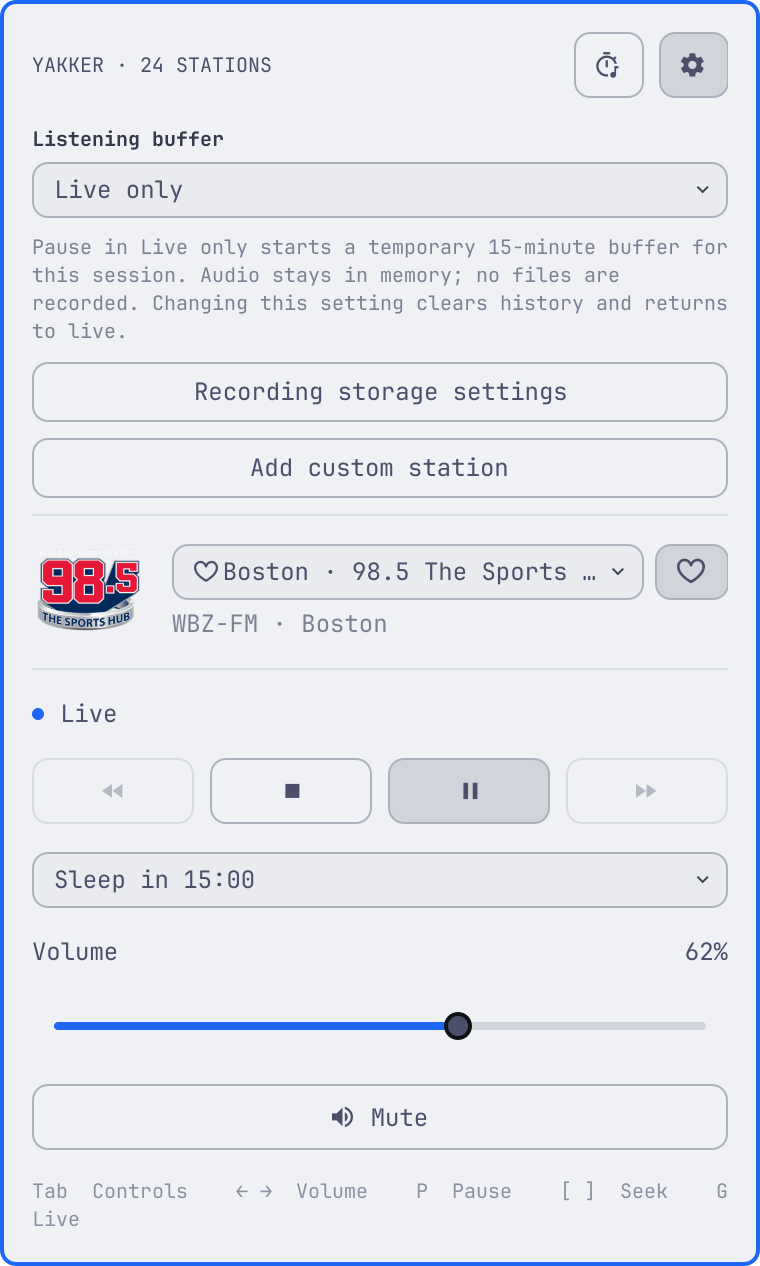
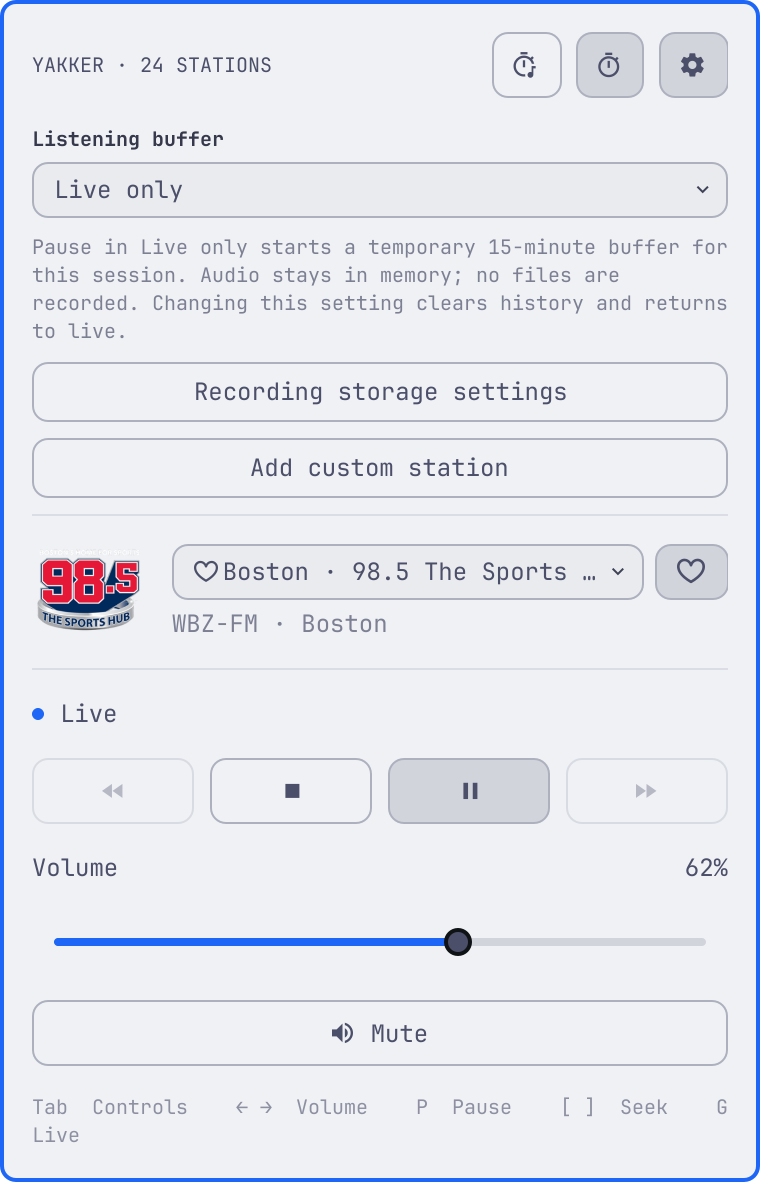
Move the sleep timer into a compact header popover

diff --git a/Panel.qml b/Panel.qml
@@ -22,7 +22,6 @@ Ui.Panel {
   property string editingStationId: ""
   readonly property var radio: Radio.RadioService
   property var scrollTarget: null
-  property bool customSleepOpen: false
   property string sleepError: ""
 
   function applySleepTimer() {
@@ -32,7 +31,7 @@ Ui.Panel {
       return
     }
     radio.setSleepTimer(minutes)
-    customSleepOpen = false; sleepError = ""
+    sleepPopup.close(); sleepError = ""
     keyCatcher.forceActiveFocus()
   }
 
@@ -47,7 +46,9 @@ Ui.Panel {
     return false
   }
   function advanceCursor(direction) {
-    let order = [14,4]
+    let order = [14]
+    if (sleepButton.enabled) order.push(19)
+    order.push(4)
     if (settingsOpen) {
       order = order.concat([5,17,10])
       if (radio.station.custom) order = order.concat([11,12])
@@ -59,7 +60,6 @@ Ui.Panel {
     if (playButton.enabled) order.push(1)
     if (forwardButton.enabled) order.push(8)
     if (speedPicker.visible) order.push(18)
-    if (sleepPicker.visible) order.push(19)
     if (radio.playbackKind === "recording") {
       if (radio.wanted && radio.duration > 0 && (radio.playbackState === "playing" || radio.paused)) order.push(15)
       if (radio.wanted || radio.bufferActive) order.push(16)
@@ -73,7 +73,7 @@ Ui.Panel {
   function ensureCursorVisible() {
     const targets = [stationPicker, playButton, volumeSlider, muteButton, settingsButton,
                      bufferPicker, stopButton, backButton, forwardButton, liveButton,
-                     addStationButton, editStationButton, deleteStationButton, favoriteButton, recordingsButton, fileTimeline, returnLiveButton, storageButton, speedPicker, sleepPicker]
+                     addStationButton, editStationButton, deleteStationButton, favoriteButton, recordingsButton, fileTimeline, returnLiveButton, storageButton, speedPicker, sleepButton]
     ensureItemVisible(targets[cursor])
   }
   function ensureItemVisible(item) {
@@ -110,7 +110,7 @@ Ui.Panel {
     else if (cursor === 16) returnLiveButton.clicked()
     else if (cursor === 17 && settingsOpen) openRecordings(true)
     else if (cursor === 18 && speedPicker.visible) speedPicker.toggle()
-    else if (cursor === 19 && sleepPicker.visible) sleepPicker.toggle()
+    else if (cursor === 19 && sleepButton.enabled) sleepButton.clicked()
   }
   function openRecordings(storage) {
     recordingsOpen = true
@@ -147,12 +147,12 @@ Ui.Panel {
     keyCatcher.forceActiveFocus()
   }
   onOpenedChanged: {
-    if (!opened) { stationPicker.close(); bufferPicker.close(); speedPicker.close(); sleepPicker.close(); customSleepOpen = false; stationEditorOpen = false; confirmStationDelete = false }
+    if (!opened) { stationPicker.close(); bufferPicker.close(); speedPicker.close(); sleepPopup.close(); stationEditorOpen = false; confirmStationDelete = false }
     else if (!radio.hasStation && radio.playbackKind !== "recording") cursor = 0
   }
   Connections {
     target: root.radio
-    function onWantedChanged() { if (!root.radio.wanted) root.customSleepOpen = false }
+    function onWantedChanged() { if (!root.radio.wanted) sleepPopup.close() }
     function onStationIdChanged() { stationPicker.value = root.radio.stationId; root.confirmStationDelete = false }
     function onBufferMinutesChanged() { bufferPicker.value = String(root.radio.bufferMinutes) }
     function onReadyChanged() {
@@ -178,14 +178,14 @@ Ui.Panel {
     owner: root.hostWidget || root
     bar: root.bar
     open: root.opened
-    focusTarget: (stationPicker.popupOpen || bufferPicker.popupOpen || speedPicker.popupOpen || sleepPicker.popupOpen || customSleepOpen || stationEditorOpen || recordingsOpen) ? null : keyCatcher
+    focusTarget: (stationPicker.popupOpen || bufferPicker.popupOpen || speedPicker.popupOpen || sleepPopup.opened || stationEditorOpen || recordingsOpen) ? null : keyCatcher
     contentWidth: panel.fittedContentWidth(Style.space(380))
     contentHeight: panel.fittedContentHeight(panelContent.implicitHeight)
 
     Ui.PanelKeyCatcher {
       id: keyCatcher
       anchors.fill: parent
-      blocked: root.recordingsOpen || root.customSleepOpen || speedPicker.popupOpen || sleepPicker.popupOpen || stationPicker.popupOpen || bufferPicker.popupOpen || stationName.activeFocus || stationURL.activeFocus || stationCity.activeFocus || stationCountry.activeFocus || stationWebsite.activeFocus || saveStationButton.activeFocus || cancelStationButton.activeFocus
+      blocked: root.recordingsOpen || sleepPopup.opened || speedPicker.popupOpen || stationPicker.popupOpen || bufferPicker.popupOpen || stationName.activeFocus || stationURL.activeFocus || stationCity.activeFocus || stationCountry.activeFocus || stationWebsite.activeFocus || saveStationButton.activeFocus || cancelStationButton.activeFocus
       onCloseRequested: root.close()
       onTabRequested: direction => root.advanceCursor(direction)
       onMoveRequested: (dx, dy) => {
@@ -238,7 +238,7 @@ Ui.Panel {
           width: parent.width
           spacing: Style.space(8)
           Text {
-            width: parent.width - recordingsButton.width - settingsButton.width - parent.spacing * 2
+            width: parent.width - recordingsButton.width - sleepButton.width - settingsButton.width - parent.spacing * 3
             anchors.verticalCenter: parent.verticalCenter
             text: "YAKKER · " + root.radio.stations.length + " STATIONS"
             textFormat: Text.PlainText
@@ -258,6 +258,77 @@ Ui.Panel {
             hasCursor: root.cursor === 14
             onHovered: hovered => { if (hovered) root.cursor = 14 }
             onClicked: root.openRecordings(false)
+          }
+          Ui.Button {
+            id: sleepButton
+            iconText: "" // nf-md-timer_outline
+            tooltipText: root.radio.sleepRemaining > 0 ? "Sleep in " + root.radio.clock(root.radio.sleepRemaining) : "Sleep timer"
+            Accessible.role: Accessible.Button
+            Accessible.name: tooltipText
+            foreground: root.barForeground
+            bordered: true
+            enabled: root.radio.wanted || root.radio.sleepRemaining > 0
+            opacity: enabled ? 1 : 0.35
+            selected: root.radio.sleepRemaining > 0
+            hasCursor: root.cursor === 19
+            onHovered: hovered => { if (hovered) root.cursor = 19 }
+            onClicked: sleepPopup.opened ? sleepPopup.close() : sleepPopup.open()
+            QQC.Popup {
+              id: sleepPopup
+              x: Math.max(-sleepButton.x, sleepButton.width - width)
+              y: sleepButton.height + Style.space(4)
+              width: Math.min(Style.space(260), panelContent.width)
+              padding: Style.space(12)
+              focus: true
+              closePolicy: QQC.Popup.CloseOnEscape | QQC.Popup.CloseOnPressOutsideParent
+              onOpened: { root.sleepError = ""; Qt.callLater(function() { sleepPresets.itemAt(0).forceActiveFocus() }) }
+              onClosed: if (!root.recordingsOpen && root.opened) Qt.callLater(function() { keyCatcher.forceActiveFocus() })
+              background: Ui.BorderSurface {
+                color: Commons.Color.popups.background
+                radius: Style.cornerRadius
+                borderSpec: Border.surfaceSpec("popups", "border", Commons.Color.popups.border, Style.normalBorderWidth)
+              }
+              contentItem: Column {
+                spacing: Style.space(8)
+                Text { width: parent.width; text: root.radio.sleepRemaining > 0 ? "Sleep in " + root.radio.clock(root.radio.sleepRemaining) : "Sleep timer"; textFormat: Text.PlainText; color: root.barForeground; font.family: Style.font.family; font.pixelSize: Style.font.body }
+                Row {
+                  width: parent.width
+                  spacing: Style.space(6)
+                  Repeater {
+                    id: sleepPresets
+                    model: [15, 30, 60]
+                    Ui.Button {
+                      required property int modelData
+                      width: (parent.width - parent.spacing * 2) / 3
+                      text: modelData + " min"
+                      foreground: root.barForeground
+                      bordered: true
+                      focusable: true
+                      onClicked: { root.radio.setSleepTimer(modelData); sleepPopup.close() }
+                    }
+                  }
+                }
+                Text { width: parent.width; text: "Custom minutes (1–240)"; textFormat: Text.PlainText; color: root.barForeground; font.family: Style.font.family; font.pixelSize: Style.font.caption }
+                Row {
+                  width: parent.width
+                  spacing: Style.space(6)
+                  Ui.TextField {
+                    id: sleepMinutes
+                    width: parent.width - sleepApply.width - parent.spacing
+                    text: "30"
+                    maximumLength: 3
+                    Accessible.name: "Sleep timer minutes"
+                    foreground: root.barForeground
+                    inputMethodHints: Qt.ImhDigitsOnly
+                    KeyNavigation.tab: sleepApply
+                    onAccepted: root.applySleepTimer()
+                  }
+                  Ui.Button { id: sleepApply; text: "Set"; foreground: root.barForeground; bordered: true; focusable: true; onClicked: root.applySleepTimer() }
+                }
+                Text { width: parent.width; text: root.sleepError; visible: text.length > 0; wrapMode: Text.Wrap; textFormat: Text.PlainText; color: Commons.Color.urgent; font.family: Style.font.family; font.pixelSize: Style.font.caption }
+                Ui.Button { width: parent.width; text: "Turn timer off"; enabled: root.radio.sleepRemaining > 0; opacity: enabled ? 1 : 0.35; foreground: root.barForeground; bordered: true; focusable: true; onClicked: { root.radio.setSleepTimer(0); sleepPopup.close() } }
+              }
+            }
           }
           Ui.Button {
             id: settingsButton
@@ -616,7 +687,7 @@ Ui.Panel {
         Row {
           width: parent.width
           spacing: Style.space(8)
-          visible: root.radio.wanted || root.radio.sleepRemaining > 0
+          visible: root.radio.playbackKind === "recording" && root.radio.wanted
           Ui.Dropdown {
             id: speedPicker
             width: (parent.width - parent.spacing) / 2
@@ -629,49 +700,6 @@ Ui.Panel {
             onHovered: hovered => { if (hovered) root.cursor = 18 }
             onChanged: value => { root.radio.setPlaybackSpeed(Number(value)); Qt.callLater(function() { keyCatcher.forceActiveFocus() }) }
           }
-          Ui.Dropdown {
-            id: sleepPicker
-            width: speedPicker.visible ? (parent.width - parent.spacing) / 2 : parent.width
-            showLabel: false
-            value: root.radio.sleepRemaining > 0 ? "active" : "0"
-            options: (root.radio.sleepRemaining > 0 ? [{value:"active",label:"Sleep in " + root.radio.clock(root.radio.sleepRemaining)}] : []).concat([
-              {value:"0",label:"Sleep timer · Off"}, {value:"15",label:"Sleep in 15 minutes"}, {value:"30",label:"Sleep in 30 minutes"}, {value:"60",label:"Sleep in 60 minutes"}, {value:"custom",label:"Custom sleep timer…"}])
-            foreground: root.barForeground
-            hasCursor: root.cursor === 19
-            onHovered: hovered => { if (hovered) root.cursor = 19 }
-            onChanged: value => {
-              if (value === "custom") {
-                root.customSleepOpen = true; root.sleepError = ""
-                Qt.callLater(function() { sleepMinutes.forceActiveFocus(); root.ensureItemVisible(sleepMinutes) })
-              } else if (value !== "active") root.radio.setSleepTimer(Number(value))
-              if (value !== "custom") Qt.callLater(function() { keyCatcher.forceActiveFocus() })
-            }
-          }
-        }
-        Column {
-          width: parent.width
-          spacing: Style.space(6)
-          visible: root.customSleepOpen && root.radio.wanted
-          Row {
-            width: parent.width
-            spacing: Style.space(6)
-            Ui.TextField {
-              id: sleepMinutes
-              width: parent.width - sleepApply.width - sleepCancel.width - parent.spacing * 2
-              text: "30"
-              maximumLength: 3
-              placeholderText: "Minutes (1–240)"
-              Accessible.name: placeholderText
-              foreground: root.barForeground
-              inputMethodHints: Qt.ImhDigitsOnly
-              KeyNavigation.tab: sleepApply
-              onAccepted: root.applySleepTimer()
-              Keys.onEscapePressed: { root.customSleepOpen = false; keyCatcher.forceActiveFocus() }
-            }
-            Ui.Button { id: sleepApply; text: "Set"; foreground: root.barForeground; bordered: true; focusable: true; KeyNavigation.tab: sleepCancel; onClicked: root.applySleepTimer() }
-            Ui.Button { id: sleepCancel; text: "Cancel"; foreground: root.barForeground; bordered: true; focusable: true; KeyNavigation.tab: sleepMinutes; onClicked: { root.customSleepOpen = false; keyCatcher.forceActiveFocus() } }
-          }
-          Text { width: parent.width; text: root.sleepError; visible: text.length > 0; textFormat: Text.PlainText; color: Commons.Color.urgent; font.family: Style.font.family; font.pixelSize: Style.font.caption }
         }
         Column {
           width: parent.width

diff --git a/tools/qml-smoke/recordings.qml b/tools/qml-smoke/recordings.qml
@@ -205,7 +205,20 @@ ShellRoot {
           verify(panel.testSpeedPicker.visible)
           panel.radio.setSleepTimer(15)
           tryVerify(function() { return panel.radio.sleepRemaining > 0 }, 5000)
-          verify(panel.testSleepPicker.visible)
+          verify(panel.testSleepButton.visible && panel.testSleepButton.selected)
+          panel.cursor = 19; panel.activate()
+          tryVerify(function() { return panel.testSleepPopup.opened }, 2000)
+          verify(panel.testCatcher.blocked, "Timer popover did not own keyboard input")
+          panel.testSleepMinutes.text = "0"; panel.applySleepTimer()
+          verify(panel.testSleepPopup.opened && panel.sleepError.length > 0)
+          capture("sleep-timer")
+          panel.testSleepMinutes.text = "20"; panel.applySleepTimer()
+          tryVerify(function() { return !panel.testSleepPopup.opened && panel.radio.sleepRemaining > 1100 }, 3000)
+          panel.cursor = 19; panel.activate()
+          tryVerify(function() { return panel.testSleepPopup.opened }, 2000)
+          wait(150); keyClick(Qt.Key_Escape)
+          verify(!panel.testSleepPopup.opened, "Escape did not close only the timer popover")
+          verify(panel.opened)
           capture("file-player")
           panel.cursor = 6; panel.activate(); tryVerify(function() { return !panel.radio.wanted && panel.radio.playbackState === "stopped" }, 5000)
           verify(!panel.testStopButton.enabled && !panel.testBackButton.enabled && !panel.testForwardButton.enabled)

diff --git a/tools/test-recordings-ui.py b/tools/test-recordings-ui.py
@@ -57,7 +57,9 @@ def main():
   property alias testForwardButton: forwardButton
   property alias testFavoriteButton: favoriteButton
   property alias testSpeedPicker: speedPicker
-  property alias testSleepPicker: sleepPicker
+  property alias testSleepButton: sleepButton
+  property alias testSleepPopup: sleepPopup
+  property alias testSleepPresets: sleepPresets
   property alias testSleepMinutes: sleepMinutes
   property alias testStationPicker: stationPicker
   property alias testName: stationName

diff --git a/README.md b/README.md
@@ -26,7 +26,7 @@ The bundled station logos belong to their respective owners; see [artwork attrib
 
 | Live radio | Pause and rewind | Recording library |
 | :---: | :---: | :---: |
-| [<img src="docs/yakker-popup.png" alt="Live player with favorite station, Recordings and Settings icons, and a compact rewind, Stop, Play/Pause, forward row" width="240">](docs/yakker-popup.png) | [<img src="docs/yakker-dvr.png" alt="Paused radio with 15 minutes of history, a seek timeline, and Go live" width="240">](docs/yakker-dvr.png) | [<img src="docs/yakker-recordings.png" alt="Compact recording library with title and station search, status filter, and saved shows" width="240">](docs/yakker-recordings.png) |
+| [<img src="docs/yakker-popup.png" alt="Live player with favorite station, Recordings, Sleep timer and Settings icons, and a compact rewind, Stop, Play/Pause, forward row" width="240">](docs/yakker-popup.png) | [<img src="docs/yakker-dvr.png" alt="Paused radio with 15 minutes of history, a seek timeline, and Go live" width="240">](docs/yakker-dvr.png) | [<img src="docs/yakker-recordings.png" alt="Compact recording library with title and station search, status filter, and saved shows" width="240">](docs/yakker-recordings.png) |
 
 | Favorites and search | Recording schedules | Settings and custom stations |
 | :---: | :---: | :---: |
@@ -172,7 +172,7 @@ omarchy-shell shell hide io.github.joega.yakker
 
 ## Pause and rewind
 
-The player also has a session-only **Sleep timer**: choose Off, 15, 30, or 60
+The timer icon beside Recordings and Settings opens the session-only **Sleep timer**: choose Off, 15, 30, or 60
 minutes, or set a custom duration from 1 to 240 minutes. It stops foreground
 listening when it expires; captures continue. Changing stations keeps the
 deadline, and pressing **Stop** cancels the timer.
